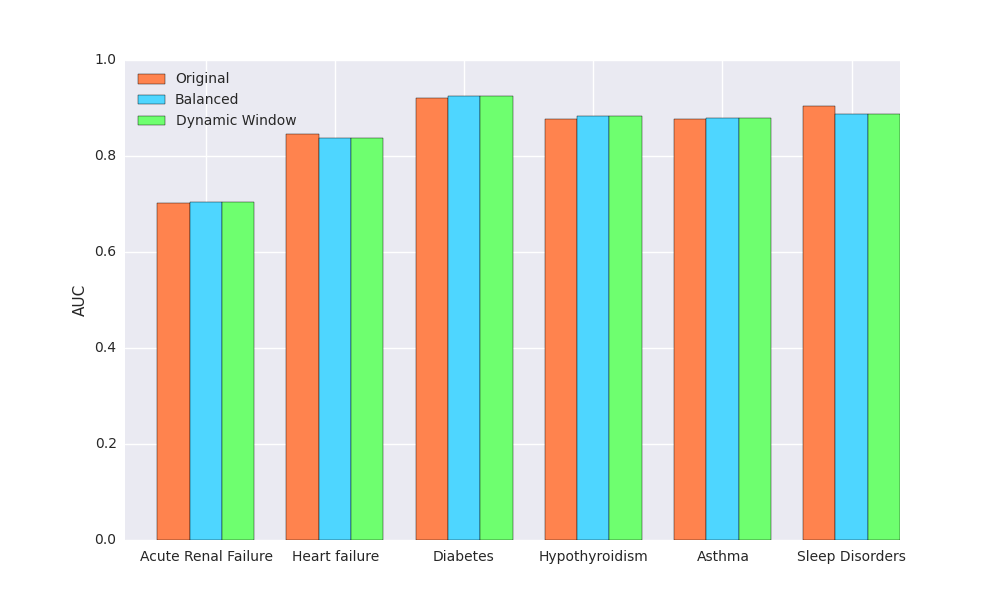
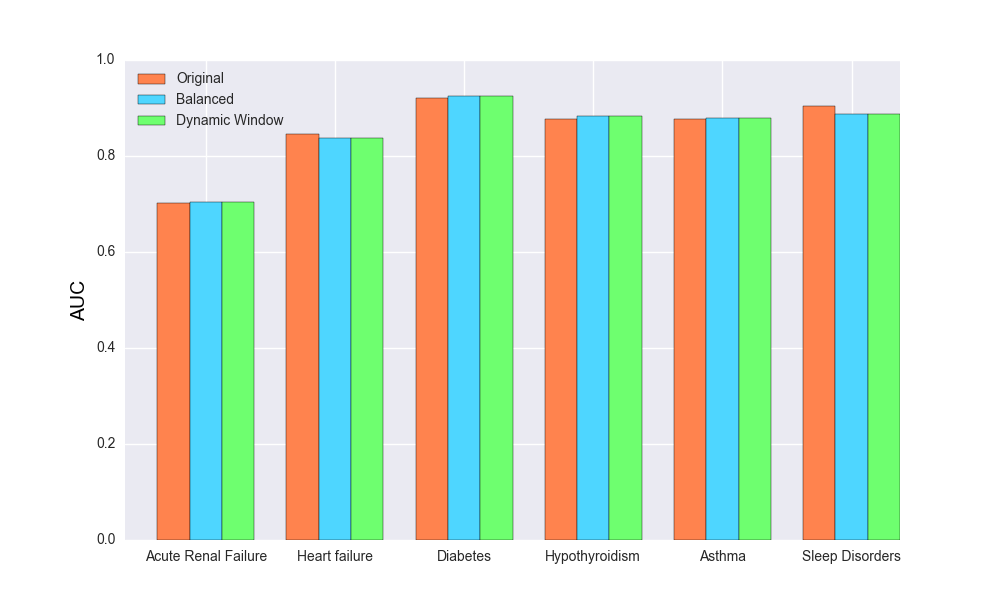
Rename Concepts to Events

diff --git a/Results/Analysis/variation_comparison/barchart_variations.py b/Results/Analysis/variation_comparison/barchart_variations.py
@@ -1,6 +1,8 @@
 import numpy as np
-import seaborn
+import matplotlib
+matplotlib.use('tkagg')
 import matplotlib.pyplot as plt
+import seaborn
 
 N = 6
 
@@ -25,7 +27,7 @@ ax.set_xticks(ind + width + 0.125)
 ax.set_xticklabels(aggx)
 
 ax.legend((u_data[0], b_data[0], d_data), ('Original', 'Balanced', 'Dynamic Window'), loc=2)
-
+plt.ylabel('AUC', fontsize=14, color='black')
 # def autolabel(rects):
 #     # attach some text labels
 #     for rect in rects:

diff --git a/README.md b/README.md
@@ -2,7 +2,7 @@
 
 
 ## Introduction
-Medical concepts are inherently ambiguous, making them difficult for use in making prognoses. Our work focuses on building prediction models on top of semantic representation of concepts organized by Word2Vec. First, we transform Electronic Health Records (EHRs) into sequences of medical concepts, where each medical concept is analogous to a word in a sentence. Second, we feed the sequences into Word2Vec, which builds a vector representation for each concept. Finally, we generate various predictive models for early prognosis using this vector representation.
+Medical events are inherently ambiguous, making them difficult for use in making prognoses. Our work focuses on building prediction models on top of semantic representation of events organized by Word2Vec. First, we transform Electronic Health Records (EHRs) into sequences of medical events, where each medical event is analogous to a word in a sentence. Second, we feed the sequences into Word2Vec, which builds a vector representation for each event. Finally, we generate various predictive models for early prognosis using this vector representation.
 
 
 ## Installation
@@ -56,9 +56,9 @@ To run Patient Diagnosis Projection Similarity (PDPS) run the following commands
     cd ../../Prediction
     python pdps.py --dataset mimic --window 30 --size 350 --decay 8
 
-Patient Diagnosis Concept Similarity:
+Patient Diagnosis Event Similarity:
 
-    python pdcs.py --dataset mimic --window 30 --size 350 --decay 8
+    python pdes.py --dataset mimic --window 30 --size 350 --decay 8
 
 Collaborative Filtering:
 
@@ -76,7 +76,7 @@ Note that Ttfidf and Collaborative filtering approaches are computationally expe
 </p>
 
 
-Vector representations constructed by Word2Vec are able to capture semantic meaning of medical concepts. Word2Vec clusters concepts based on their type as shown in the figure. In addition, it was able to capture closely similar concepts, for example the cosine similarity of ’p_WARF2’ (Warfarin 2mg Tab) and ’p_WARF1’ (Warfarin 1mg Tab) is 0.924. All prescriptions starting with ’p_WARF’  are close to each other around the point (0, 0.45). This representation simplifies learning since it does not treat similar concepts as different features.
+Vector representations constructed by Word2Vec are able to capture semantic meaning of medical events. Word2Vec clusters events based on their type as shown in the figure. In addition, it was able to capture closely similar events, for example the cosine similarity of ’p_WARF2’ (Warfarin 2mg Tab) and ’p_WARF1’ (Warfarin 1mg Tab) is 0.924. All prescriptions starting with ’p_WARF’  are close to each other around the point (0, 0.45). This representation simplifies learning since it does not treat similar events as different features.
 
 <p align="center">
     <img alt="Word Vectors" src="https://github.com/wael34218/MimicVectorPredictor/blob/master/Results/Analysis/word_vectors.png?raw=true" width="500">
